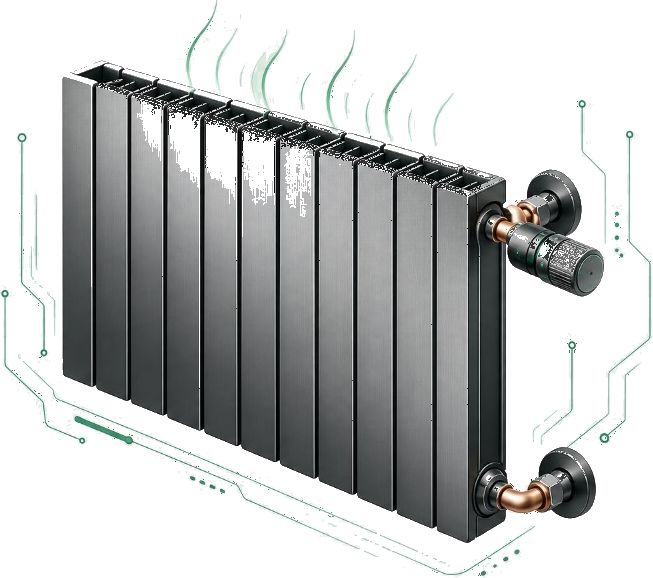
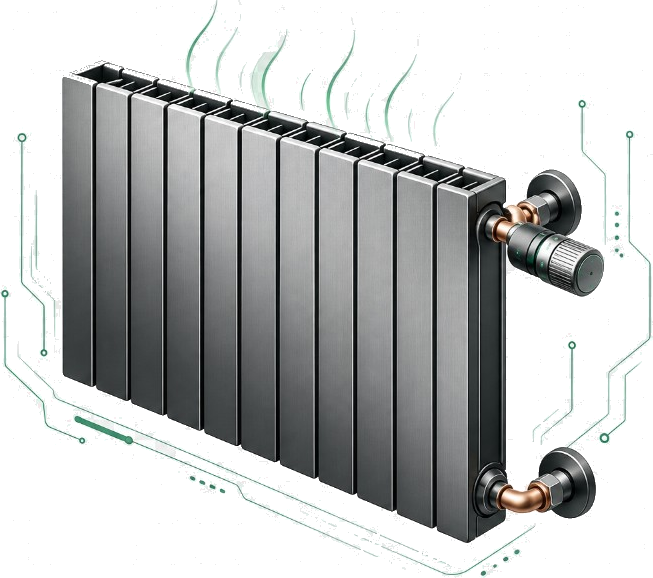
fix: stop Chrome painting black behind transparent calculator diagrams.
Put site background on the image itself and skip overflow clipping, serve option diagrams as PNG with a safer checker knockout.

diff --git a/frontend/src/lib/project-calculator-option-images.ts b/frontend/src/lib/project-calculator-option-images.ts
@@ -127,7 +127,7 @@ const OPTIONS_BASE = "/images/calculator/options";
 /** Схемы опций калькулятора: slug → описание и картинка. */
 export const CALCULATOR_OPTION_CATALOG_META: Record<string, CalculatorOptionCatalogMeta> = {
   electric: {
-    imageUrl: `${OPTIONS_BASE}/electric.webp`,
+    imageUrl: `${OPTIONS_BASE}/electric.png`,
     description: [
       "Сертифицированный медный кабель ВВГнг(А)-LS по ГОСТ (3×2,5 мм² и 3×1,5 мм²).",
       "Разметка трасс и штробление стен под скрытую электропроводку.",
@@ -140,7 +140,7 @@ export const CALCULATOR_OPTION_CATALOG_META: Record<string, CalculatorOptionCata
     ].join("\n"),
   },
   radiators: {
-    imageUrl: `${OPTIONS_BASE}/radiators.webp`,
+    imageUrl: `${OPTIONS_BASE}/radiators.png`,
     description: [
       "Биметаллические радиаторы с высокой теплоотдачей.",
       "Сертифицированные армированные полипропиленовые трубы и фитинги.",
@@ -154,7 +154,7 @@ export const CALCULATOR_OPTION_CATALOG_META: Record<string, CalculatorOptionCata
     ].join("\n"),
   },
   water: {
-    imageUrl: `${OPTIONS_BASE}/water.webp`,
+    imageUrl: `${OPTIONS_BASE}/water.png`,
     description: [
       "Сертифицированные армированные полипропиленовые трубы и фитинги.",
       "Коллекторная система разводки для стабильного давления на всех точках водоразбора.",
@@ -170,7 +170,7 @@ export const CALCULATOR_OPTION_CATALOG_META: Record<string, CalculatorOptionCata
     ].join("\n"),
   },
   heatedFloor: {
-    imageUrl: `${OPTIONS_BASE}/heated-floor.webp`,
+    imageUrl: `${OPTIONS_BASE}/heated-floor.png`,
     description: [
       "Полусухая цементно-песчаная стяжка, армированная фиброволокном.",
       "Труба из сшитого полиэтилена PEX-a Ø16 мм с кислородным барьером.",
@@ -186,7 +186,7 @@ export const CALCULATOR_OPTION_CATALOG_META: Record<string, CalculatorOptionCata
     ].join("\n"),
   },
   sewer: {
-    imageUrl: `${OPTIONS_BASE}/sewer.webp`,
+    imageUrl: `${OPTIONS_BASE}/sewer.png`,
     description: [
       "Сертифицированные канализационные трубы и фасонные элементы диаметром 110 мм и 50 мм.",
       "Монтаж системы внутренней канализации согласно проектной документации.",
@@ -199,7 +199,7 @@ export const CALCULATOR_OPTION_CATALOG_META: Record<string, CalculatorOptionCata
     ].join("\n"),
   },
   boiler: {
-    imageUrl: `${OPTIONS_BASE}/boiler.webp`,
+    imageUrl: `${OPTIONS_BASE}/boiler.png`,
     description: [
       "Электрический или газовый котёл (в соответствии с проектом и выбранной комплектацией).",
       "Бойлер нагрева для приготовления горячей воды.",
@@ -218,7 +218,7 @@ export const CALCULATOR_OPTION_CATALOG_META: Record<string, CalculatorOptionCata
     ].join("\n"),
   },
   bio: {
-    imageUrl: `${OPTIONS_BASE}/bio.webp`,
+    imageUrl: `${OPTIONS_BASE}/bio.png`,
     description: [
       "Современная станция глубокой биологической очистки бытовых сточных вод.",
       "Степень очистки сточных вод — до 98%.",
@@ -282,57 +282,57 @@ export const CALCULATOR_OPTION_CATALOG_META: Record<string, CalculatorOptionCata
     ].join("\n"),
   },
   interior_plaster: {
-    imageUrl: `${OPTIONS_BASE}/interior-plaster.webp`,
+    imageUrl: `${OPTIONS_BASE}/interior-plaster.png`,
     description:
       "Внутренняя штукатурка стен: оштукатуривание углов по маякам, штукатурные уголки, выравнивание и финишное нанесение слоёв.",
   },
   blind_area: {
-    imageUrl: `${OPTIONS_BASE}/blind-area.webp`,
+    imageUrl: `${OPTIONS_BASE}/blind-area.png`,
     description:
       "Отмостка по периметру фундамента: уклон от стены, подготовка основания, укладка плитки или бетона, линейный водоотвод в дренаж.",
   },
   drainage: {
-    imageUrl: `${OPTIONS_BASE}/drainage.webp`,
+    imageUrl: `${OPTIONS_BASE}/drainage.png`,
     description:
       "Дренаж вокруг дома: перфорированная труба в щебне, геотекстиль, колодец-накопитель и отвод воды от фундамента по периметру.",
   },
   soffits: {
-    imageUrl: `${OPTIONS_BASE}/soffits.webp`,
+    imageUrl: `${OPTIONS_BASE}/soffits.png`,
     description:
       "Софиты и подшивка карнизов: вентилируемые панели, обрамление свесов кровли, защита подкровельного пространства от влаги.",
   },
   gutter: {
-    imageUrl: `${OPTIONS_BASE}/gutter.webp`,
+    imageUrl: `${OPTIONS_BASE}/gutter.png`,
     description:
       "Водосточная система: желоба, воронки, отводы к ливневому колодцу или дренажу. Длина рассчитывается через коэффициент водостока категории дома.",
   },
   roof_folding: {
-    imageUrl: `${OPTIONS_BASE}/roof-folding.webp`,
+    imageUrl: `${OPTIONS_BASE}/roof-folding.png`,
     description:
       "Фальцевая кровля: стоячие фальцы, крепёжные клипсы, подкровельная гидроизоляция и утепление. Стоимость — по площади кровли.",
   },
   roof_soft: {
-    imageUrl: `${OPTIONS_BASE}/roof-soft.webp`,
+    imageUrl: `${OPTIONS_BASE}/roof-soft.png`,
     description:
       "Мягкая кровля: гибкая черепица, подкладочный ковёр, обрешётка, вентиляция конька и ендовы. Расчёт по площади кровельного ската.",
   },
   roof_insulation_200: {
-    imageUrl: `${OPTIONS_BASE}/roof-insulation-200.webp`,
+    imageUrl: `${OPTIONS_BASE}/roof-insulation-200.png`,
     description:
       "Утепление кровли 200 мм: минеральная вата между стропилами, пароизоляция, контробрешётка и вентзазор под кровельным покрытием.",
   },
   roof_insulation_250: {
-    imageUrl: `${OPTIONS_BASE}/roof-insulation-250.webp`,
+    imageUrl: `${OPTIONS_BASE}/roof-insulation-250.png`,
     description:
       "Утепление кровли 250 мм: усиленный тёплый контур для мансарды и жилых чердачных помещений, паро- и гидрозащита кровельного пирога.",
   },
   monolithic_stairs: {
-    imageUrl: `${OPTIONS_BASE}/monolithic-stairs.webp`,
+    imageUrl: `${OPTIONS_BASE}/monolithic-stairs.png`,
     description:
       "Монолитная лестница: опалубка, арматурный каркас, бетонирование и демонтаж щитов. Доступна для мансардных и двухэтажных домов.",
   },
   monolithic_overlap: {
-    imageUrl: `${OPTIONS_BASE}/monolithic-overlap.webp`,
+    imageUrl: `${OPTIONS_BASE}/monolithic-overlap.png`,
     description:
       "Монолитное перекрытие: стойки, балки, арматурная сетка и заливка плиты. Для мансардных и двухэтажных проектов по несущей схеме.",
   },
@@ -344,10 +344,13 @@ export function isLegacyOptionPlaceholderImage(url: string | null | undefined): 
   return trimmed.startsWith(LEGACY_BANNER_PREFIX) || trimmed === "/images/banner/banner-hero-01.png";
 }
 
-/** Старые PNG-схемы опций → лёгкий WebP (миниатюра ~150px, retina до 512). */
+/**
+ * Схемы опций: отдаём полный PNG с альфой.
+ * WebP 512px + агрессивный knockout раньше портили светлую штукатурку и контраст.
+ */
 export function preferOptimizedOptionDiagramUrl(url: string): string {
-  if (/\/images\/calculator\/options\/.+\.png$/i.test(url)) {
-    return url.replace(/\.png$/i, ".webp");
+  if (/\/images\/calculator\/options\/.+\.webp$/i.test(url)) {
+    return url.replace(/\.webp$/i, ".png");
   }
   return url;
 }

diff --git a/frontend/src/lib/project-calculator-option-images.test.ts b/frontend/src/lib/project-calculator-option-images.test.ts
@@ -319,21 +319,24 @@ describe("project-calculator-option-images", () => {
   });
 
   it("определяет схемы из /images/calculator/", () => {
-    expect(isCalculatorOptionDiagramUrl("/images/calculator/options/electric.webp")).toBe(true);
+    expect(isCalculatorOptionDiagramUrl("/images/calculator/options/electric.png")).toBe(true);
     expect(isCalculatorOptionDiagramUrl("/uploads/electric.png")).toBe(false);
   });
 
-  it("заменяет тяжёлый PNG схем опций на WebP", () => {
+  it("схемы опций отдаём как PNG с альфой, не как сжатый WebP", () => {
+    expect(preferOptimizedOptionDiagramUrl("/images/calculator/options/heated-floor.webp")).toBe(
+      "/images/calculator/options/heated-floor.png",
+    );
     expect(preferOptimizedOptionDiagramUrl("/images/calculator/options/heated-floor.png")).toBe(
-      "/images/calculator/options/heated-floor.webp",
+      "/images/calculator/options/heated-floor.png",
     );
     expect(
       resolveOptionDisplayImageUrl({
         slug: "electric",
         groupSlug: "engineering",
-        imageUrl: "/images/calculator/options/electric.png",
+        imageUrl: "/images/calculator/options/electric.webp",
       }),
-    ).toBe("/images/calculator/options/electric.webp");
+    ).toBe("/images/calculator/options/electric.png");
   });
 
   it("распознаёт legacy-заглушки", () => {
@@ -348,7 +351,7 @@ describe("project-calculator-option-images", () => {
 
     for (const slug of [...engineeringSlugs, ...constructionSlugs]) {
       const meta = CALCULATOR_OPTION_CATALOG_META[slug];
-      expect(meta?.imageUrl, slug).toMatch(/^\/images\/calculator\/options\/.+\.webp$/);
+      expect(meta?.imageUrl, slug).toMatch(/^\/images\/calculator\/options\/.+\.png$/);
       expect(meta?.description?.trim(), slug).toBeTruthy();
     }
   });

diff --git a/frontend/src/components/construction/project-calculator-catalog-options.tsx b/frontend/src/components/construction/project-calculator-catalog-options.tsx
@@ -345,11 +345,10 @@ function OptionWorkScope({
         {src ? (
           <div
             className={cn(
-              "relative mx-auto w-full overflow-hidden rounded-lg sm:mx-0",
-              "bg-[var(--bg)]",
+              "relative mx-auto w-full rounded-lg sm:mx-0",
               isDiagram
-                ? "aspect-[4/3] max-h-[10.5rem] max-w-[15rem] sm:max-h-[9.5rem] sm:max-w-none"
-                : "aspect-[4/3] max-h-[10.5rem] max-w-[15rem] bg-[var(--stone)] sm:max-h-[9.5rem] sm:max-w-none",
+                ? "aspect-[4/3] max-h-[10.5rem] max-w-[15rem] bg-[var(--bg)] sm:max-h-[9.5rem] sm:max-w-none"
+                : "aspect-[4/3] max-h-[10.5rem] max-w-[15rem] overflow-hidden bg-[var(--stone)] sm:max-h-[9.5rem] sm:max-w-none",
             )}
           >
             <CmsImage
@@ -357,8 +356,13 @@ function OptionWorkScope({
               alt={name}
               fill
               unoptimized={isDiagram}
-              className={cn(isDiagram ? "object-contain object-center" : "object-cover object-center")}
+              className={cn(
+                isDiagram
+                  ? "bg-[var(--bg)] object-contain object-center"
+                  : "object-cover object-center",
+              )}
               sizes="(max-width: 640px) 240px, 184px"
+              style={isDiagram ? { backgroundColor: "var(--bg)" } : undefined}
             />
             {zoomable && !isDiagram ? (
               <button

diff --git a/frontend/src/components/construction/house-project-completion-section.tsx b/frontend/src/components/construction/house-project-completion-section.tsx
@@ -484,9 +484,13 @@ export function HouseProjectCompletionSection({
                     src={imgSrc}
                     alt=""
                     fill
+                    unoptimized={isStageDiagram}
                     className={cn(
-                      isStageDiagram ? "object-contain object-center" : "object-cover",
+                      isStageDiagram
+                        ? "bg-[var(--bg)] object-contain object-center"
+                        : "object-cover",
                     )}
+                    style={isStageDiagram ? { backgroundColor: "var(--bg)" } : undefined}
                     sizes={isStageDiagram ? "100vw" : "(max-width: 768px) 100vw, 50vw"}
                   />
                   <button
@@ -511,7 +515,9 @@ export function HouseProjectCompletionSection({
                       src={secondaryImgSrc}
                       alt=""
                       fill
-                      className="object-contain object-center"
+                      unoptimized
+                      className="bg-[var(--bg)] object-contain object-center"
+                      style={{ backgroundColor: "var(--bg)" }}
                       sizes="100vw"
                     />
                     <button
